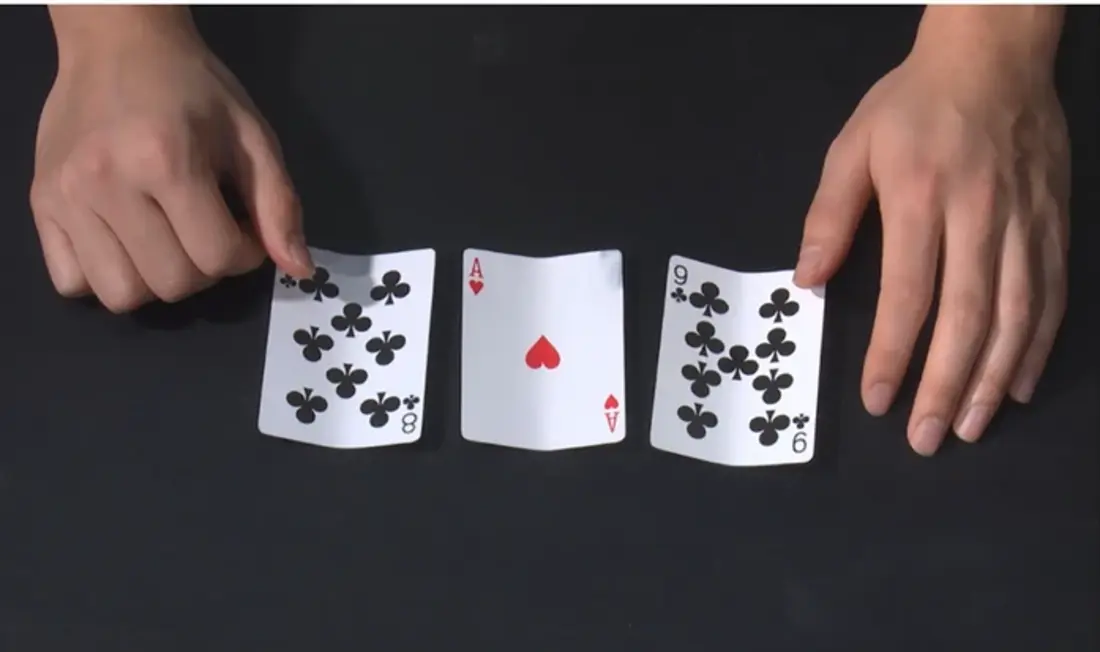
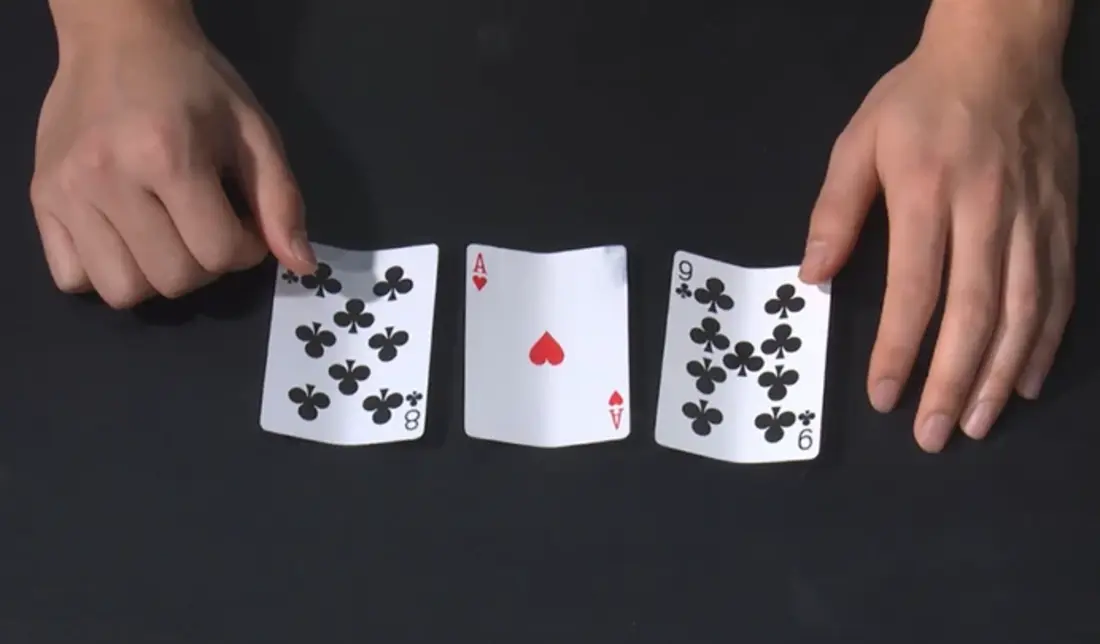
Card image without white line; assistant concept designer; game mastering; people leading the show

diff --git a/fr/index.html b/fr/index.html
@@ -131,7 +131,7 @@
           </div>
         </a>
         <a class="piece" href="work/three-card-monte.html">
-          <div class="pic"><img src="../img/monte-cards.webp" width="1100" height="652" alt="Trois cartes sur une table, l’as de cœur entre deux cartes noires, les mains du donneur de chaque côté." loading="lazy"></div>
+          <div class="pic"><img src="../img/monte-cards.webp" width="1100" height="644" alt="Trois cartes sur une table, l’as de cœur entre deux cartes noires, les mains du donneur de chaque côté." loading="lazy"></div>
           <div class="cartel">
             <h3>La marque que personne n’a vue</h3>
             <p class="meta">2018, publié en 2026 · <i>Scientific Reports</i></p>
@@ -171,10 +171,10 @@
         </div>
       </div>
       <ul class="rows">
-        <li><span class="when">2026</span><span><strong>Liotard Awakens, Musée d’Art et d’Histoire.</strong> <span class="note">Des portraits qui parlent : des comédiens encadrés comme les tableaux de Liotard, discutant avec les visiteurs lors d’un afterwork. Porté et mis en scène par Yohann Thenaisie, avec des comédiens de The Murderet et toute une équipe créative, costumes et scénographie compris. Le concept est né de nos brainstormings ; j’ai ensuite accompagné le metteur en scène comme concepteur et regard extérieur, et aidé à faire avancer les choses en coulisses.</span></span></li>
+        <li><span class="when">2026</span><span><strong>Liotard Awakens, Musée d’Art et d’Histoire.</strong> <span class="note">Des portraits qui parlent : des comédiens encadrés comme les tableaux de Liotard, discutant avec les visiteurs lors d’un afterwork. Porté et mis en scène par Yohann Thenaisie, avec des comédiens de The Murderet et toute une équipe créative, costumes et scénographie compris. Le concept est né de nos brainstormings ; j’ai ensuite accompagné le metteur en scène comme assistant concept designer et regard extérieur, et aidé à faire avancer les choses en coulisses.</span></span></li>
         <li><span class="when">2018–2023</span><span><strong>Social Campus Biotech Association.</strong> <span class="note">Co-président. Communauté, bien-être et sens, sur un campus où les gens se parlaient peu. Ce que l’on voyait, c’était un événement mensuel pour plus de 150 personnes. Derrière, une enquête auprès des membres et un focus group ont fixé le cap.</span></span></li>
         <li><span class="when">2022</span><span><strong>Science Me!, Genève.</strong> <span class="note">Maître de cérémonie bilingue pendant deux jours d’un concours international de médiation scientifique, lors de la Nuit de la Science : 16 équipes, plus de 2 300 spectateurs. J’avais préparé à l’avance la prononciation du nom de chaque membre des équipes, telle qu’on le dit chez eux.</span></span></li>
-        <li><span class="when">Depuis 2014</span><span><strong>Création et conseil en projets immersifs.</strong> <span class="note">Créer des jeux et des expériences immersives, puis conseiller d’autres personnes sur les leurs : transformer une idée en quelque chose de faisable dans des contraintes réelles. La sécurité d’abord : depuis 2022, pour chaque spectacle auquel je participe, je mets en place des protocoles pour les cas limites entre jeu d’acteur et maîtrise de jeu, et j’y forme l’équipe en présence de la personne qui porte le projet, pour que les interprètes sachent que la production les soutient.</span></span></li>
+        <li><span class="when">Depuis 2014</span><span><strong>Création et conseil en projets immersifs.</strong> <span class="note">Créer des jeux et des expériences immersives, puis conseiller d’autres personnes sur les leurs : transformer une idée en quelque chose de faisable dans des contraintes réelles. La sécurité d’abord : depuis 2022, pour chaque spectacle auquel je participe, je mets en place des protocoles pour les cas limites entre jeu d’acteur et game mastering, et j’y forme l’équipe en présence de la ou des personnes qui portent le projet, pour que les interprètes sachent que la production les soutient.</span></span></li>
         <li><span class="when">2025</span><span><strong>Lemanic Life Sciences Hackathon, EPFL.</strong> <span class="note">Direction d’une équipe jusqu’à une mention honorable : sur 12 équipes et plus de 110 participants, la seule à aborder l’éthique, comme le demandait la consigne.</span></span></li>
         <li><span class="when">2019</span><span><strong>Formation Innosuisse Business Concept (Science2Market).</strong> <span class="note">Direction d’une équipe de quatre sur l’usage de l’IoT et de l’analyse de données pour personnaliser des expériences immersives à grande échelle.</span></span></li>
         <li><span class="when">2017</span><span><strong>Google, Zürich.</strong> <span class="note">Analyste politique Shopping : classification et qualité des données des offres Google Shopping, plus de l’automatisation qui ne figurait pas dans mon cahier des charges.</span></span></li>
@@ -198,7 +198,7 @@
         <li><span class="when">2026</span><span>Nguyen, A.*, Alexander, R. G.*, Venkatakrishnan, A., Macknik, S. L., &amp; Martinez-Conde, S. <strong>Assessing the role of magician patter on deception in the Three-Card Monte.</strong> <i>Scientific Reports</i>, 16, 14770. <span class="note">*co-premiers auteurs</span></span></li>
         <li><span class="when">2026</span><span><strong>Flow et distraction dans le jeu vidéo.</strong> <span class="note">Poster, FENS Forum 2026.</span> <a href="https://indd.adobe.com/view/publication/4cf3b6d1-6cae-4450-b765-4dcb843e71e0/5fj7/publication-web-resources/pdf/2026_FENS_Flow_final.pdf">Poster (PDF)</a></span></li>
         <li><span class="when">2023</span><span>Nguyen, A., &amp; Bavelier, D. <strong>Play in video games.</strong> <i>Neuroscience &amp; Biobehavioral Reviews</i>. <a href="https://www.sciencedirect.com/science/article/pii/S014976342300355X">Article</a></span></li>
-        <li><span class="when">Depuis 2022</span><span><strong>La sécurité dans la performance immersive.</strong> <span class="note">Des protocoles pour les cas limites entre jeu d’acteur et maîtrise de jeu, et une formation pour chaque équipe avec laquelle je joue, en présence de la personne qui porte le projet, pour que les interprètes sachent que la production les soutient.</span></span></li>
+        <li><span class="when">Depuis 2022</span><span><strong>La sécurité dans la performance immersive.</strong> <span class="note">Des protocoles pour les cas limites entre jeu d’acteur et game mastering, et une formation pour chaque équipe avec laquelle je joue, en présence de la ou des personnes qui portent le projet, pour que les interprètes sachent que la production les soutient.</span></span></li>
         <li><span class="when">2022</span><span><strong>Qu’est-ce qui fait fonctionner une expérience immersive ?</strong> <span class="note">Nomenclature, état de l’art et exemples, pour une communauté de GNistes.</span></span></li>
         <li><span class="when">2021</span><span><strong>Expériences immersives et changement social.</strong> <span class="note">Intervention invitée, master en innovation et durabilité.</span></span></li>
         <li><span class="when">2021</span><span><strong>Un court métrage, réalisé en un week-end.</strong> <span class="note">Hackathon SciFilmIt : des équipes de scientifiques, de cinéastes et une « boîte noire ». J’étais la boîte noire, le liant entre les deux.</span> <a href="https://youtu.be/SWPi4yJVBI0">Voir</a></span></li>

diff --git a/index.html b/index.html
@@ -131,7 +131,7 @@
           </div>
         </a>
         <a class="piece" href="work/three-card-monte.html">
-          <div class="pic"><img src="img/monte-cards.webp" width="1100" height="652" alt="Three playing cards on a table, the ace of hearts between two black cards, the dealer’s hands on either side." loading="lazy"></div>
+          <div class="pic"><img src="img/monte-cards.webp" width="1100" height="644" alt="Three playing cards on a table, the ace of hearts between two black cards, the dealer’s hands on either side." loading="lazy"></div>
           <div class="cartel">
             <h3>The mark nobody noticed</h3>
             <p class="meta">2018, published 2026 · <i>Scientific Reports</i></p>
@@ -171,10 +171,10 @@
         </div>
       </div>
       <ul class="rows">
-        <li><span class="when">2026</span><span><strong>Liotard Awakens, Musée d’Art et d’Histoire.</strong> <span class="note">Talking portraits: actors framed as Liotard’s paintings, chatting with visitors during an after-work evening. Led and directed by Yohann Thenaisie, with actors from The Murderet and a full creative team, costumes and set included. The concept grew out of our brainstorming; I then supported the director as concept designer and sounding board, and helped make things happen backstage.</span></span></li>
+        <li><span class="when">2026</span><span><strong>Liotard Awakens, Musée d’Art et d’Histoire.</strong> <span class="note">Talking portraits: actors framed as Liotard’s paintings, chatting with visitors during an after-work evening. Led and directed by Yohann Thenaisie, with actors from The Murderet and a full creative team, costumes and set included. The concept grew out of our brainstorming; I then supported the director as assistant concept designer and sounding board, and helped make things happen backstage.</span></span></li>
         <li><span class="when">2018–2023</span><span><strong>Social Campus Biotech Association.</strong> <span class="note">Co-president. Community, wellbeing and meaning on a campus where people rarely talked to each other. What people saw was a monthly event for 150+ people. Behind it were a member survey and a focus group that set the direction.</span></span></li>
         <li><span class="when">2022</span><span><strong>Science Me!, Geneva.</strong> <span class="note">Bilingual MC for two days of an international science-communication competition during the Nuit de la Science: 16 teams, 2,300+ spectators. I researched beforehand how to pronounce every team member’s name as it’s said at home.</span></span></li>
-        <li><span class="when">Since 2014</span><span><strong>Designing and advising immersive projects.</strong> <span class="note">Creating games and immersive experiences, and later advising others on theirs: turning an idea into something feasible within real constraints. Safety first: since 2022, for every show I’m part of, I set up protocols for the edge cases between performing and game-mastering, and train the cast in them with the show’s creator in the room, so performers know the production has their back.</span></span></li>
+        <li><span class="when">Since 2014</span><span><strong>Designing and advising immersive projects.</strong> <span class="note">Creating games and immersive experiences, and later advising others on theirs: turning an idea into something feasible within real constraints. Safety first: since 2022, for every show I’m part of, I set up protocols for the edge cases between performing and game-mastering, and train the cast in them with the people leading the show in the room, so performers know the production has their back.</span></span></li>
         <li><span class="when">2025</span><span><strong>Lemanic Life Sciences Hackathon, EPFL.</strong> <span class="note">Led a team to an honourable mention: out of 12 teams and 110+ participants, the only one to address ethics, as the brief asked.</span></span></li>
         <li><span class="when">2019</span><span><strong>Innosuisse Business Concept training (Science2Market).</strong> <span class="note">Led a team of four on using IoT and analytics to personalise immersive experiences at scale.</span></span></li>
         <li><span class="when">2017</span><span><strong>Google, Zürich.</strong> <span class="note">Shopping policy analyst: classification and data quality for Google Shopping offers, plus automation that wasn’t in the job description.</span></span></li>
@@ -198,7 +198,7 @@
         <li><span class="when">2026</span><span>Nguyen, A.*, Alexander, R. G.*, Venkatakrishnan, A., Macknik, S. L., &amp; Martinez-Conde, S. <strong>Assessing the role of magician patter on deception in the Three-Card Monte.</strong> <i>Scientific Reports</i>, 16, 14770. <span class="note">*co-first authors</span></span></li>
         <li><span class="when">2026</span><span><strong>Flow and distraction while gaming.</strong> <span class="note">Poster, FENS Forum 2026.</span> <a href="https://indd.adobe.com/view/publication/4cf3b6d1-6cae-4450-b765-4dcb843e71e0/5fj7/publication-web-resources/pdf/2026_FENS_Flow_final.pdf">Poster (PDF)</a></span></li>
         <li><span class="when">2023</span><span>Nguyen, A., &amp; Bavelier, D. <strong>Play in video games.</strong> <i>Neuroscience &amp; Biobehavioral Reviews</i>. <a href="https://www.sciencedirect.com/science/article/pii/S014976342300355X">Article</a></span></li>
-        <li><span class="when">Since 2022</span><span><strong>Safety for immersive performance.</strong> <span class="note">Protocols for the edge cases between performing and game-mastering, and training for every cast I’m part of, with the show’s creator in the room, so performers know the production has their back.</span></span></li>
+        <li><span class="when">Since 2022</span><span><strong>Safety for immersive performance.</strong> <span class="note">Protocols for the edge cases between performing and game-mastering, and training for every cast I’m part of, with the people leading the show in the room, so performers know the production has their back.</span></span></li>
         <li><span class="when">2022</span><span><strong>What makes an immersive experience work?</strong> <span class="note">Nomenclature, state of the art and examples, for a community of LARPers.</span></span></li>
         <li><span class="when">2021</span><span><strong>Immersive experiences for social change.</strong> <span class="note">Guest session, master’s programme in innovation and sustainability.</span></span></li>
         <li><span class="when">2021</span><span><strong>A short film, made in a weekend.</strong> <span class="note">SciFilmIt hackathon: teams of scientists, filmmakers and a “black box”. I was the black box, the glue in between.</span> <a href="https://youtu.be/SWPi4yJVBI0">Watch</a></span></li>
